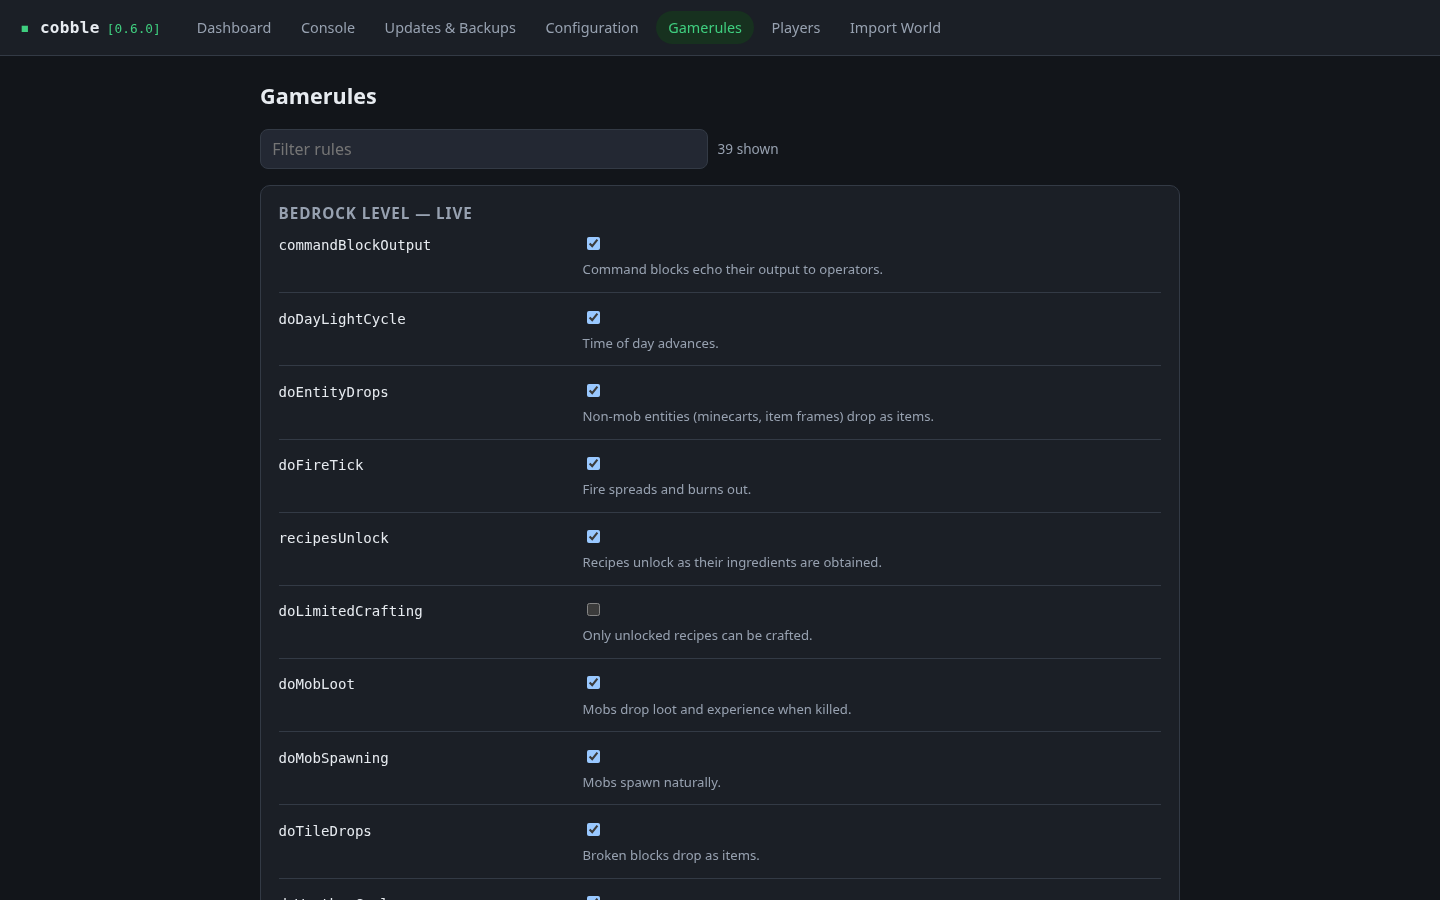
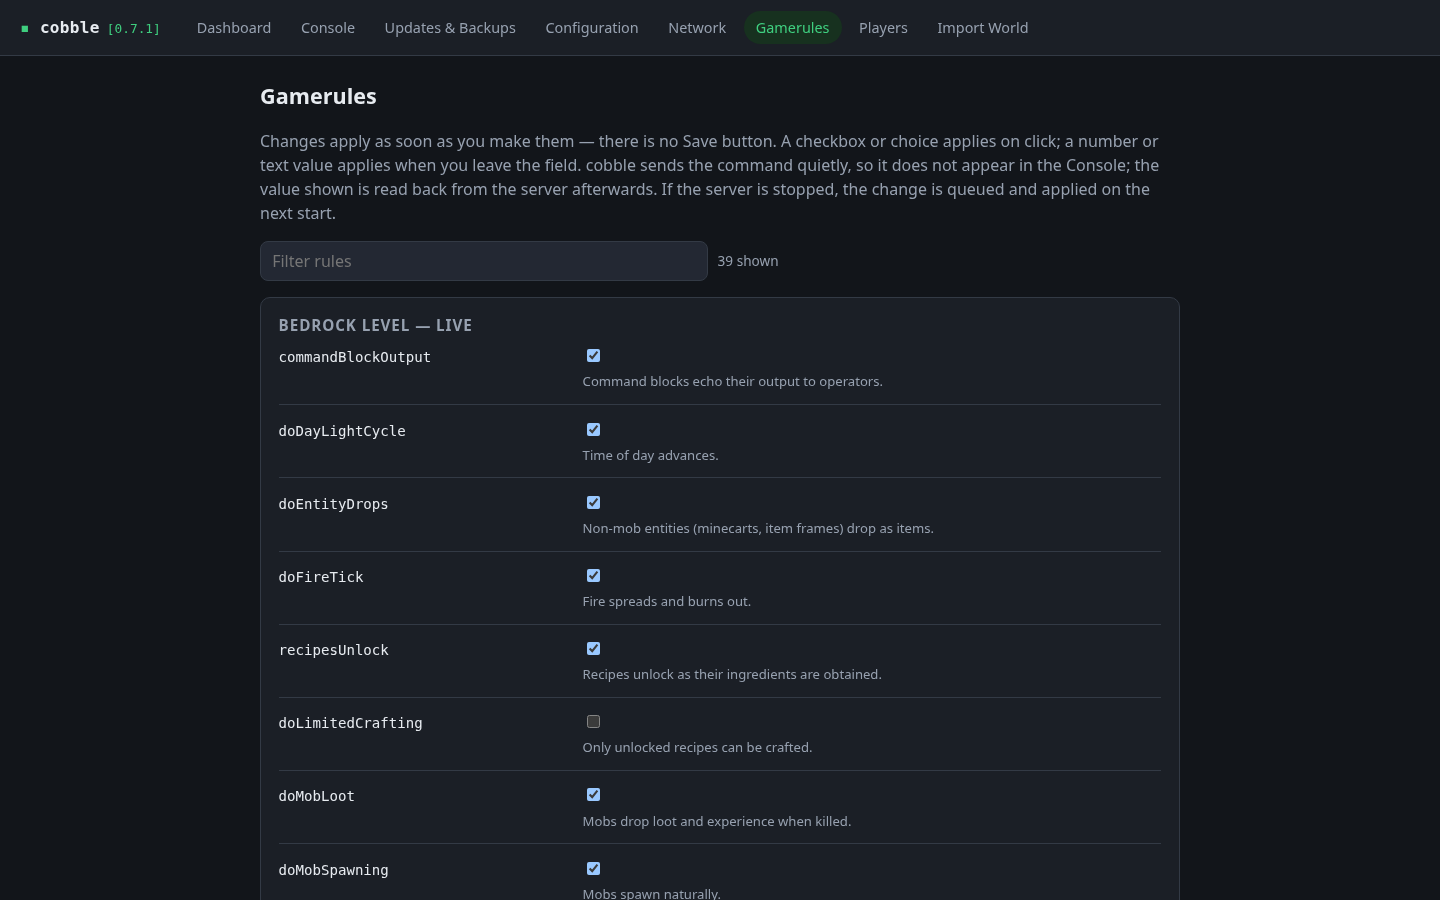
docs: retake panel screenshots on v0.7.1
All six screenshots show the header badge at [0.7.1] and the Network
item in the nav. The Gamerules shot shows the new note on how changes
apply. Adds a screenshot of the Network section to the README tour.
Taken from the test host at 1440x900 in dark mode, like the originals.

diff --git a/README.md b/README.md
@@ -32,6 +32,10 @@ well on any **Debian 12 or 13** VM or bare-metal install.
 
 ![Configuration](docs/screenshots/configuration.png)
 
+**Network** — the transport players connect over, its ports, and what to forward on your router.
+
+![Network](docs/screenshots/network.png)
+
 **Gamerules** — live gamerule editing for the loaded world.
 
 ![Gamerules](docs/screenshots/gamerules.png)
